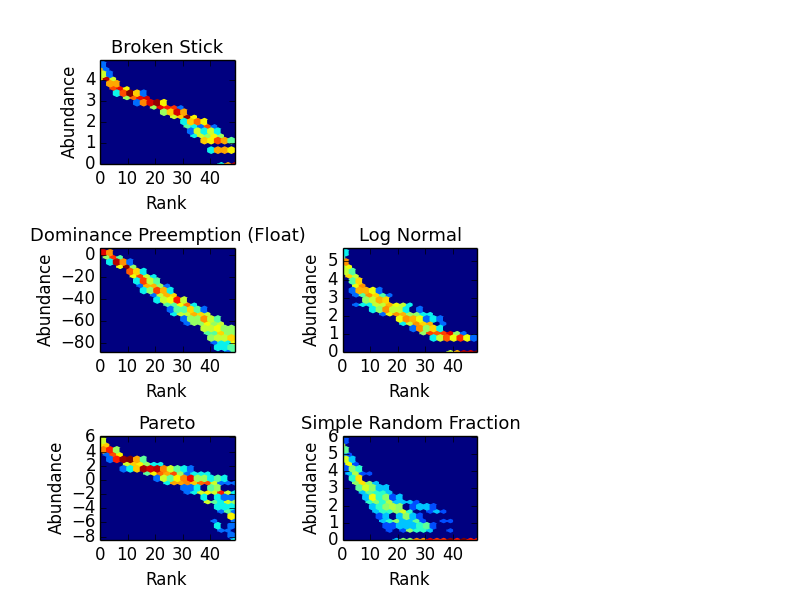
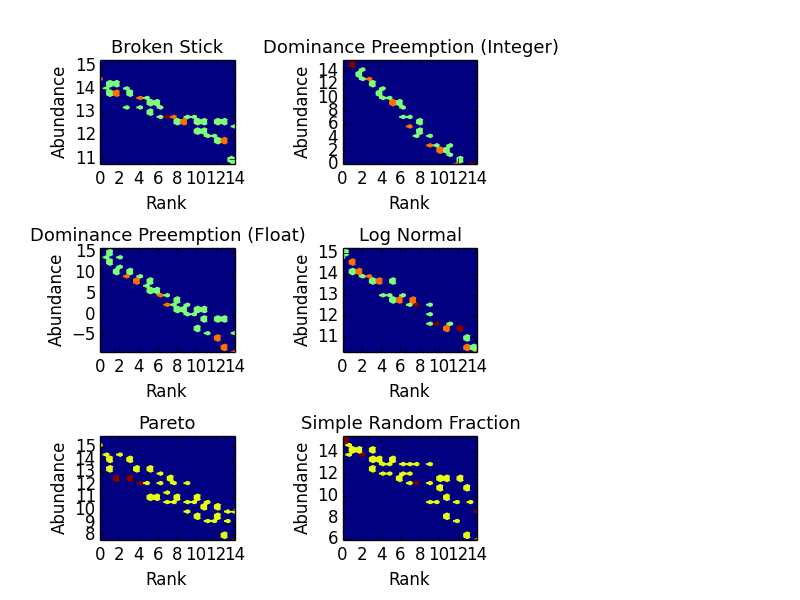
update

diff --git a/Models/Models.py b/Models/Models.py
@@ -67,12 +67,13 @@ def SimBrokenStick(N, S, sample_size):
         
         for _list in RACs:
             if sum(RAC) !=N or len(RAC) != S:
-                #print 'Incorrect N and S: N=',sum(RAC),' S=', len(RAC)
-        
+                print 'Incorrect N and S: N=',sum(RAC),' S=', len(RAC)
+                sys.exit()
+                
     return RACs 
     
    
-    '''This script codes Tokeshi's Dominance Preemption Model
+'''This script codes Tokeshi's Dominance Preemption Model
 this code does not work well with small N or high S'''
 
 def DomPreInt(N, S, sample_size): # Works only with positive integers
@@ -222,3 +223,27 @@ def Sample_SimpleRandomFraction(N, S, sample_size):
         sample.append(RAC) # appending a list (i.e. an RAC) to another list
         
     return sample
+    
+def DomFloat(N, S, sample_size): # Works only with positive integers
+    sample = [] # A list of RACs
+   
+    while len(sample) != sample_size: # number of samples loop     
+        RAC = [] #RAC is a list
+        sp1 = uniform(0,  N*.5) #Rand select from N to N(.5)
+        ab1 = N - sp1
+        RAC.extend([sp1, ab1]) 
+        
+        while len(RAC) < S:
+            ab2 = RAC.pop()
+            sp2 = uniform(0, ab2 *.5)
+            RAC.extend([sp2, ab2-sp2])
+
+        if len(RAC) == S and int(round(sum(RAC))) == N:
+            RAC.sort(reverse = True)
+            sample.append(RAC)
+        #else:
+            #print len(RAC), sum(RAC)
+        
+    return sample
+
+    

diff --git a/RandFracFigs.py b/RandFracFigs.py
@@ -10,9 +10,9 @@ import matplotlib.pyplot as plt
 
 
 
-N = 1000
-S = 50
-sample_size = 10
+N = 10000000
+S = 20
+sample_size = 1
 
 fig = plt.figure()
 """ The Broken Stick Model constrained by N and S """
@@ -25,8 +25,8 @@ plt.ylabel('Abundance')
 
 print 'finished broken stick'
 
-""" The Dominance Preemption constrained by N and S, excluding decimals """
-'''ax = fig.add_subplot(3, 3, 2)  # Debug me
+'''"""The Dominance Preemption constrained by N and S, excluding decimals """
+ax = fig.add_subplot(3, 3, 2)  # Debug me
 DPI = Models.DomPreInt(N, S, sample_size)
 fig = HeatMap.RACHeatMap(fig, DPI)
 plt.title('Dominance Preemption (Integer)', fontsize = 13)
@@ -69,6 +69,14 @@ plt.title('Simple Random Fraction', fontsize = 13)
 plt.xlabel('Rank')
 plt.ylabel('Abundance')
 print 'finished simple random fraction'
+
+ax = fig.add_subplot(3, 3, 8)
+DDF = Models.DomFloat(N, S, sample_size)
+fig = HeatMap.RACHeatMap(fig, DDF)
+plt.title('Dominance Decay (float)', fontsize = 13)
+plt.xlabel('Rank')
+plt.ylabel('Abundance')
+print 'finished Dominance decay float'
 
 plt.subplots_adjust(wspace=0.8, hspace=0.8)
 plt.savefig('/Users/Nathan_Hillis/SADModels/Results/Figure')
